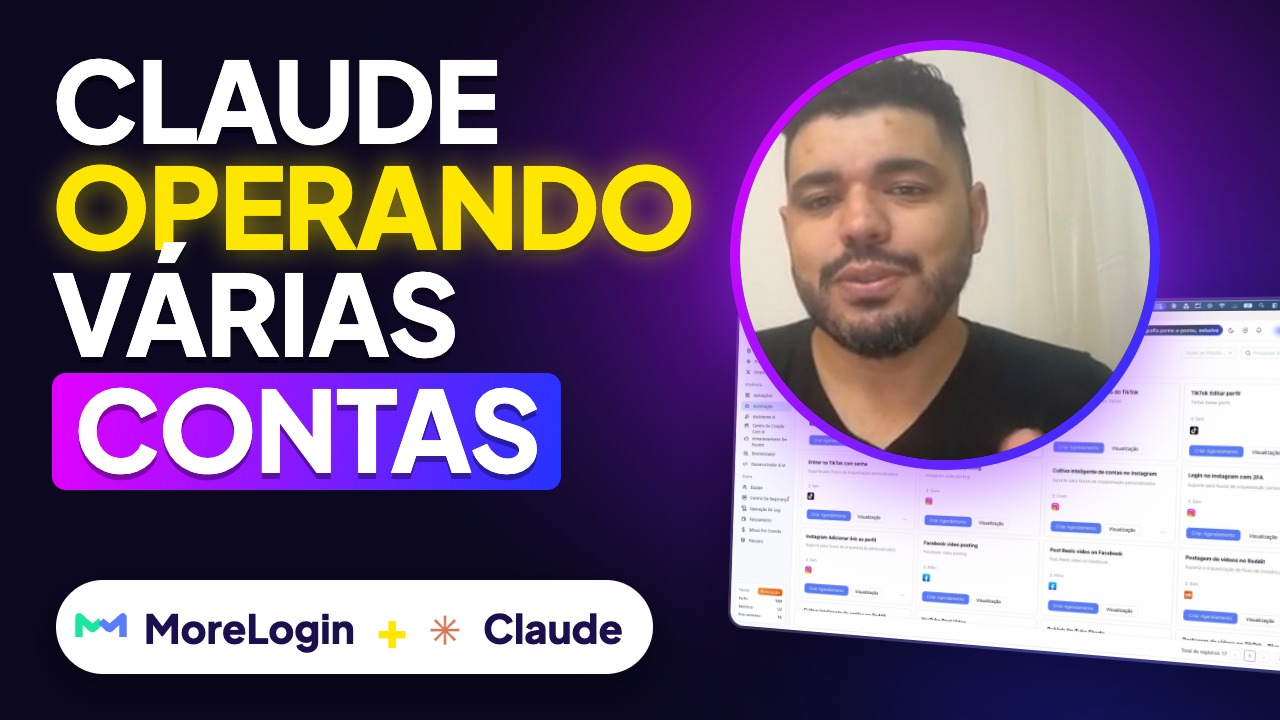
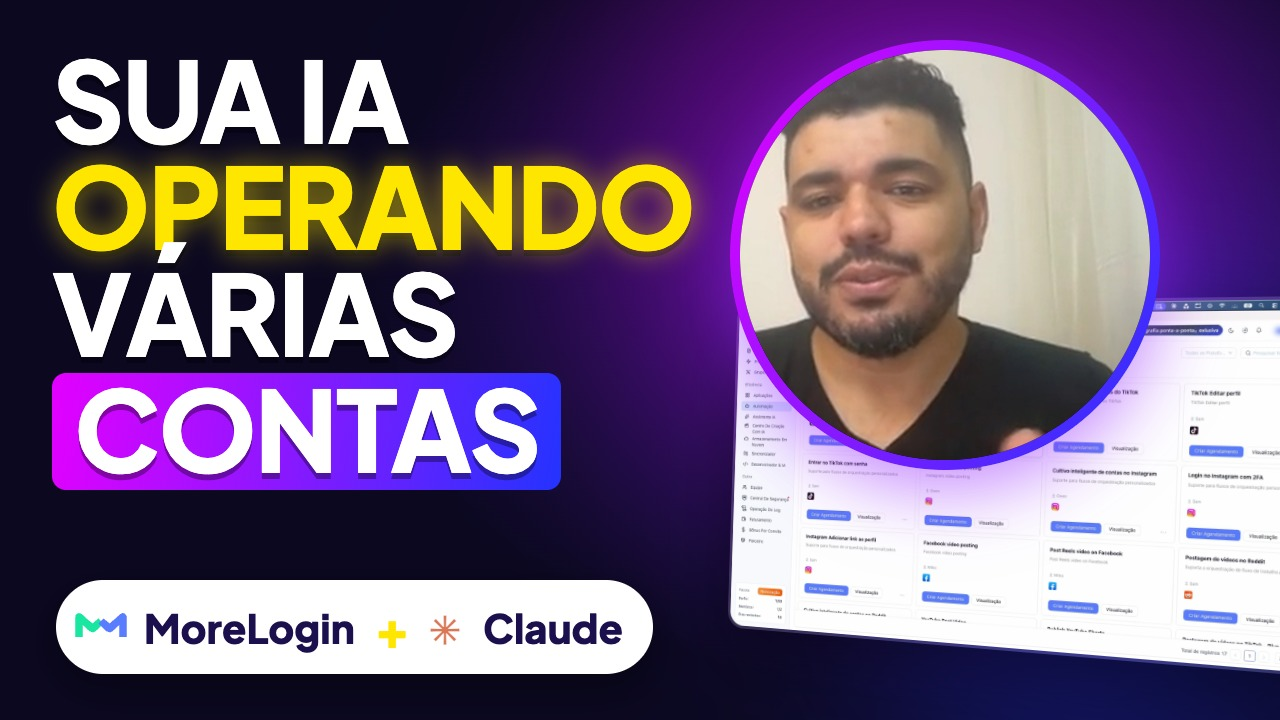
parceria MoreLogin: link /register, titulo pedido pela MoreLogin e reupload nao listado (6p_TPYrAzy0)

Changed region(s): [[0.0312, 0.0611, 0.4062, 0.2139]]

diff --git a/output/parceria-morelogin/motions.py b/output/parceria-morelogin/motions.py
@@ -9,7 +9,7 @@ from concurrent.futures import ProcessPoolExecutor
 AQUI = os.path.dirname(os.path.abspath(__file__))
 SAIDA = os.path.join(AQUI, 'trab', 'mot')
 FPS = 30
-LINK = 'morelogin.com/?from=AAF7cYpPRan2'
+LINK = 'morelogin.com/register?from=AAF7cYpPRan2'
 
 BASE = """<!doctype html><html><head><meta charset="utf-8">
 <link href="https://fonts.googleapis.com/css2?family=Plus+Jakarta+Sans:wght@500;700;800&display=block" rel="stylesheet">

diff --git a/output/parceria-morelogin/youtube.md b/output/parceria-morelogin/youtube.md
@@ -9,7 +9,12 @@ Pelo brief da MoreLogin (PDF "MoreLogin for partners 2026"):
 
 Publicação: só depois do "sim" do Itamar e da aprovação da MoreLogin (os 70% restantes são pagos antes da publicação).
 
-**Subido NÃO LISTADO em 19/11/2026: https://youtu.be/c4CFjmaGg88** (capa ok). Falta no Studio, à mão:
+**Versão atual, NÃO LISTADA (19/11/2026): https://youtu.be/6p_TPYrAzy0** (capa ok).
+Título pedido pela MoreLogin (Ana não quis "Claude operando várias contas"): **MoreLogin: sua IA operando várias contas da Shopee**.
+Link de afiliado corrigido para `/register?from=AAF7cYpPRan2` na descrição, no comentário e no cartão final do vídeo; capa trocou "CLAUDE" por "SUA IA".
+Versão anterior, com link e título errados: https://youtu.be/c4CFjmaGg88 (não listada, apagar quando o Itamar mandar).
+
+Falta no Studio (vídeo novo), à mão:
 1. marcar "Inclui promoção paga";
 2. subir `legendas_youtube.srt` (o token da API não tem o escopo de legendas);
 3. fixar o comentário com o link (a API não fixa comentário).
@@ -26,7 +31,7 @@ Publicação: só depois do "sim" do Itamar e da aprovação da MoreLogin (os 70
 #publi Vídeo patrocinado pela MoreLogin.
 
 🎁 Teste a MoreLogin pelo meu link e ganhe 50 perfis grátis por 2 semanas + 15% de desconto:
-https://www.morelogin.com/?from=AAF7cYpPRan2
+https://www.morelogin.com/register?from=AAF7cYpPRan2
 
 Neste vídeo eu mostro como conectar o Claude ao MoreLogin para a IA operar navegadores separados, um para cada conta: loja da Shopee, chat de vendedor, WhatsApp, Instagram, TikTok. Cada perfil tem a própria sessão e a própria rede, então uma conta não se mistura com a outra. Também mostro o celular em nuvem, a automação de postagens, a CLI e a API local.
 
@@ -61,7 +66,7 @@ Use com responsabilidade: uma conta por cliente ou CNPJ, respostas no ritmo de u
 
 ```
 🎁 Link da MoreLogin com 50 perfis grátis por 2 semanas + 15% OFF:
-https://www.morelogin.com/?from=AAF7cYpPRan2
+https://www.morelogin.com/register?from=AAF7cYpPRan2
 (publicidade · parceria MoreLogin)
 ```
 
@@ -73,7 +78,7 @@ celular em nuvem, automação com IA, agência de marketplace, gestor de contas,
 ## Mensagem para a Ana (envio do vídeo para aprovação)
 
 ```
-Oi, Ana! Segue o vídeo para aprovação, não listado: https://youtu.be/c4CFjmaGg88
+Oi, Ana! Segue o vídeo para aprovação, não listado: https://youtu.be/6p_TPYrAzy0
 
 Tema: Claude + MoreLogin, a IA operando perfis isolados (Shopee, WhatsApp, TikTok/Instagram),
 com celular em nuvem, Sincronizador, CLI e API local.

diff --git a/output/parceria-morelogin/proposta.md b/output/parceria-morelogin/proposta.md
@@ -1,7 +1,7 @@
 # Parceria MoreLogin (Ana, ana_santos@morelogin.com)
 
 Contato em 01/11/2026. O Itamar respondeu "Tenho interesse" em 05/11.
-Link de afiliado dele: https://www.morelogin.com/?from=AAF7cYpPRan2
+Link de afiliado dele: https://www.morelogin.com/register?from=AAF7cYpPRan2
 Um site de terceiros fala em 15% sobre as compras dos indicados. Não achei os termos oficiais: confirmar com a Ana.
 
 ## Antes de fechar: cuidado com o ângulo
